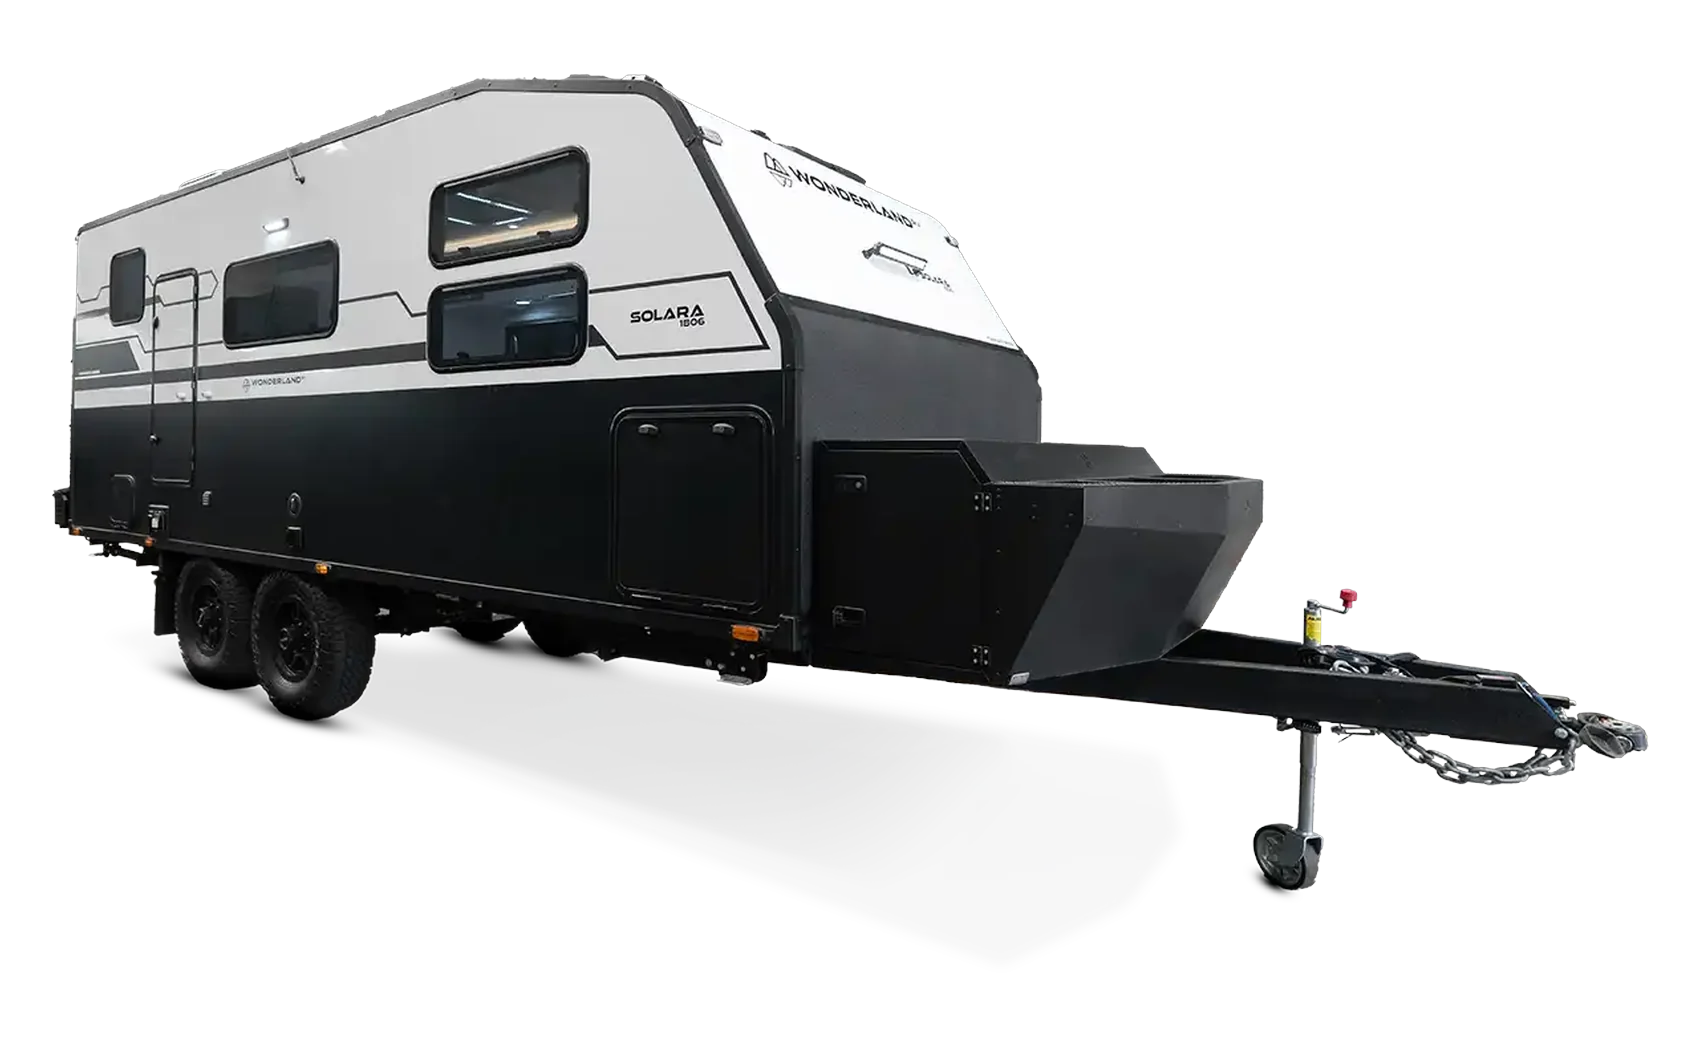
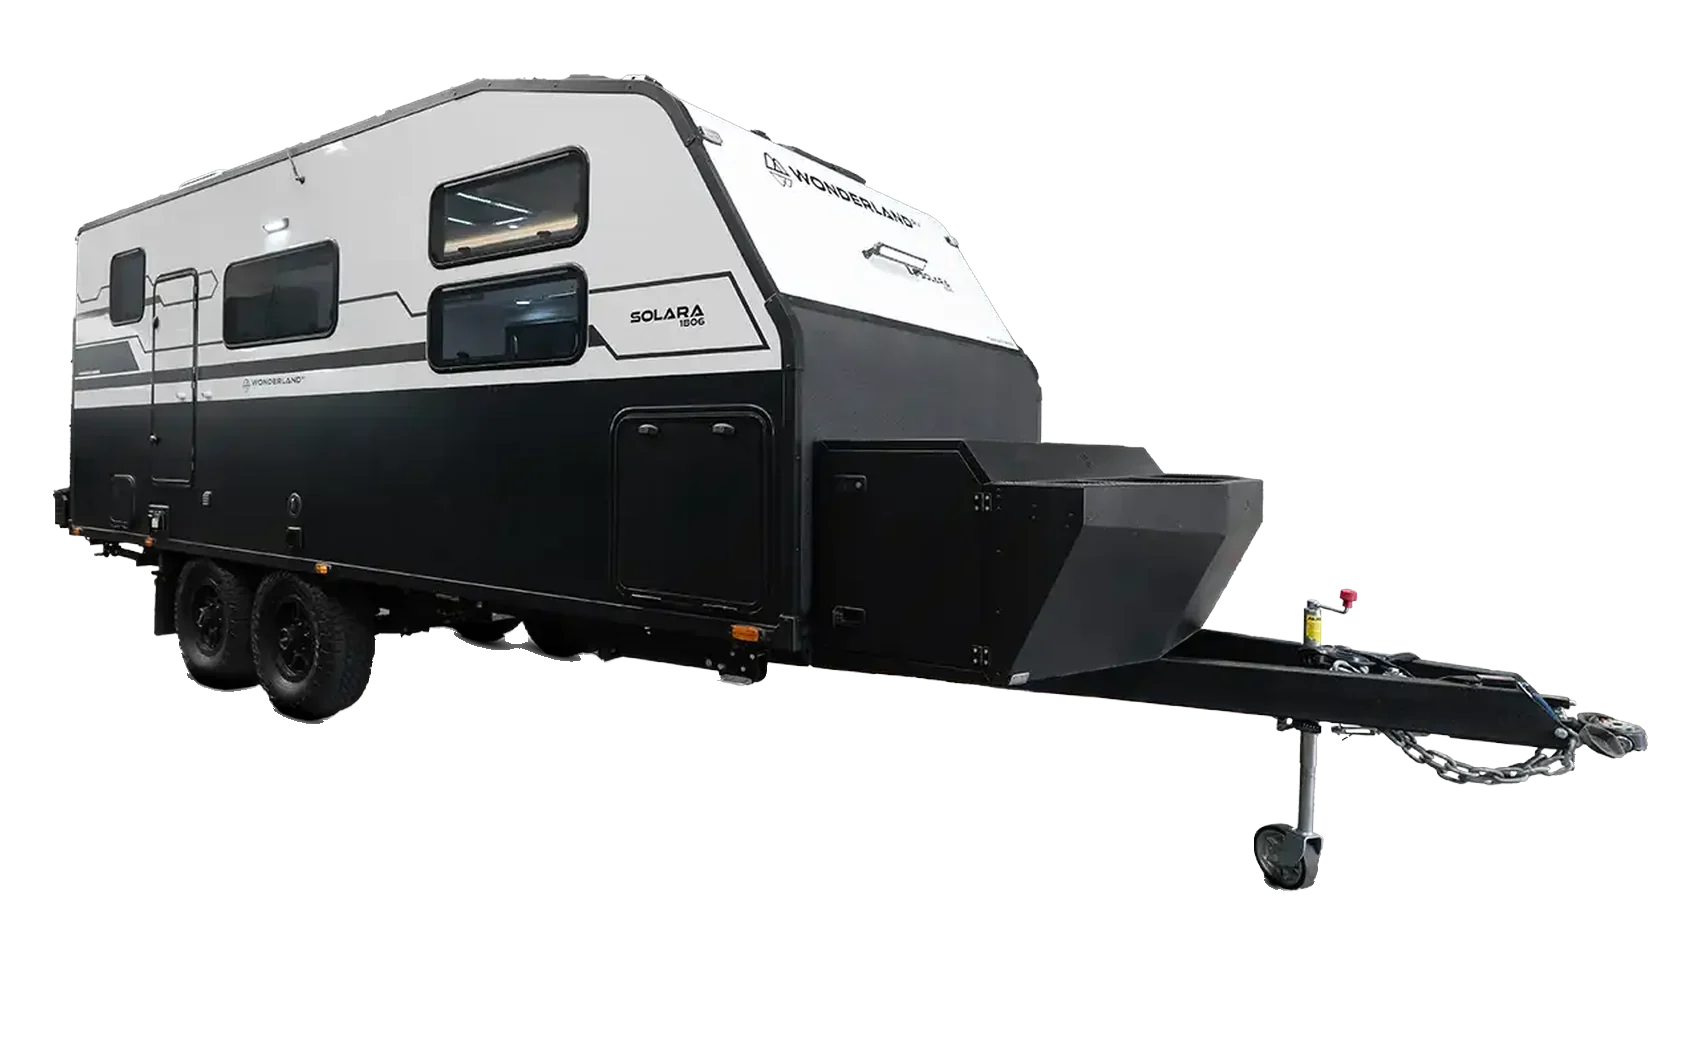
Range: the vans lose their baked-in ground shadows
They were inconsistent rather than wrong -- Hornet carried 41,675 shadow
pixels below the van and XTR 29 -- which is why they read as smudges instead
of shadows. Cleared per column: everything faint and dark below the lowest
solid pixel in that column, so no edge, chain, jockey wheel or bike rack is
touched. The images carry their own ?v=2 or a browser holding the old ones
would never fetch them again.

Changed region(s): [[0.1247, 0.5915, 0.53, 0.7472], [0.0935, 0.6226, 0.1247, 0.6538]]

diff --git a/home.html b/home.html
@@ -6,11 +6,11 @@
 <title>Wonderland RV — Luxury Off-Road Caravans</title>
 <meta name="description" content="Wonderland RV's bespoke off-road caravans combine the comforts of a boutique hotel with the freedom to explore Australia's rugged beauty.">
 <link rel="icon" href="assets/img/wonderland-rv-logo.png">
-<link rel="stylesheet" href="assets/css/styles.css?v=232">
-<link rel="stylesheet" href="assets/css/type-compact.css?v=232">
-<link rel="stylesheet" href="assets/css/ambassadors.css?v=232">
-<link rel="stylesheet" href="assets/css/homepage.css?v=232">
-<link rel="stylesheet" href="assets/css/range-viewer.css?v=232">
+<link rel="stylesheet" href="assets/css/styles.css?v=233">
+<link rel="stylesheet" href="assets/css/type-compact.css?v=233">
+<link rel="stylesheet" href="assets/css/ambassadors.css?v=233">
+<link rel="stylesheet" href="assets/css/homepage.css?v=233">
+<link rel="stylesheet" href="assets/css/range-viewer.css?v=233">
 </head>
 <body class="home">
 
@@ -413,7 +413,7 @@
   <div class="amb-more-strip" tabindex="0" aria-label="The Wonderlanders">
     <div class="wl-card">
       <div class="wl-card-media ph" data-ph="AMBASSADOR PHOTO — The Feel Good Family">
-        <img src="assets/img/ambassadors/feel-good-family.jpg?v=232" alt="Katie, Paul and Jasper of The Feel Good Family with their Wonderland RV Solara" onload="this.parentElement.classList.remove('ph')" onerror="this.remove()">
+        <img src="assets/img/ambassadors/feel-good-family.jpg?v=233" alt="Katie, Paul and Jasper of The Feel Good Family with their Wonderland RV Solara" onload="this.parentElement.classList.remove('ph')" onerror="this.remove()">
       </div>
       <div class="wl-card-name">
         <div class="wl-card-head">
@@ -472,7 +472,7 @@
     </div>
     <div class="wl-card">
       <div class="wl-card-media ph" data-ph="AMBASSADOR PHOTO — The Kiwi Van Life">
-        <img src="assets/img/ambassadors/kiwi-van-life.jpg?v=232" alt="Rorden, Cass, Jed and Lexi of The Kiwi Van Life" onload="this.parentElement.classList.remove('ph')" onerror="this.remove()">
+        <img src="assets/img/ambassadors/kiwi-van-life.jpg?v=233" alt="Rorden, Cass, Jed and Lexi of The Kiwi Van Life" onload="this.parentElement.classList.remove('ph')" onerror="this.remove()">
       </div>
       <div class="wl-card-name">
         <div class="wl-card-head">
@@ -912,14 +912,14 @@
   </div>
 </footer>
 
-<script src="assets/js/video-embed.js?v=232"></script>
-<script src="assets/js/home.js?v=232"></script>
-<script src="assets/js/reviews.js?v=232"></script>
-<script src="assets/js/footer.js?v=232"></script>
-<script src="assets/js/budget.js?v=232"></script>
-<script src="assets/js/faq.js?v=232"></script>
-<script src="assets/js/range-viewer.js?v=232"></script>
-<script src="assets/js/wl-strip.js?v=232"></script>
-<script src="assets/js/nav.js?v=232"></script>
+<script src="assets/js/video-embed.js?v=233"></script>
+<script src="assets/js/home.js?v=233"></script>
+<script src="assets/js/reviews.js?v=233"></script>
+<script src="assets/js/footer.js?v=233"></script>
+<script src="assets/js/budget.js?v=233"></script>
+<script src="assets/js/faq.js?v=233"></script>
+<script src="assets/js/range-viewer.js?v=233"></script>
+<script src="assets/js/wl-strip.js?v=233"></script>
+<script src="assets/js/nav.js?v=233"></script>
 </body>
 </html>

diff --git a/assets/js/range-viewer.js b/assets/js/range-viewer.js
@@ -82,7 +82,10 @@
   function buildStage() {
     [].slice.call(stage.querySelectorAll(".rvx-van")).forEach(function (x) { x.remove(); });
     stage.insertAdjacentHTML("afterbegin", MODELS.map(function (m, k) {
-      var src = "assets/img/home/range/" + m.id + "-34.webp";
+      /* the cut-outs were re-cut to drop their baked-in ground shadows, so
+         they need a version of their own -- nothing else would tell a
+         browser holding the old ones to go and get them again */
+      var src = "assets/img/home/range/" + m.id + "-34.webp?v=2";
       return '<div class="rvx-van" data-k="' + k + '">' +
         '<img src="' + src + '" alt="' + m.name + '" onerror="this.remove();">' +
       '</div>';
